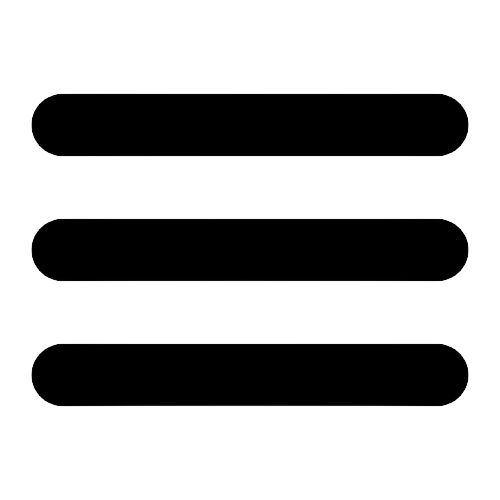
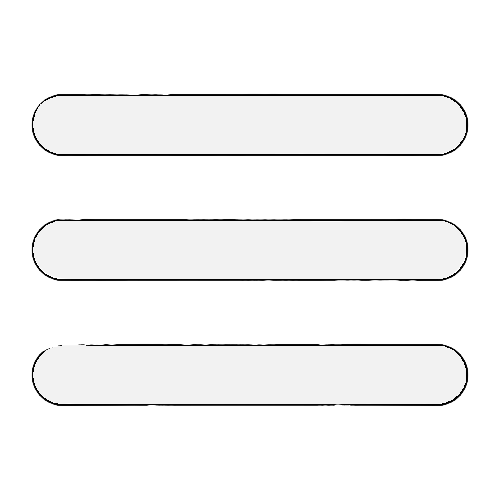
Updated Contact CSS and dropdown image

Changed region(s): [[0.06, 0.42, 0.96, 0.57], [0.06, 0.18, 0.96, 0.33], [0.06, 0.69, 0.93, 0.81]]

diff --git a/styles/contact.css b/styles/contact.css
@@ -466,6 +466,8 @@ input:focus, textarea:focus {
 
 /* Footer Section */
 footer {
+    position: relative;
+    bottom: 0;
     width: 100%;
     height: 45px;
     margin-top: 100px;
@@ -494,6 +496,12 @@ footer {
         border-left: none;
         border-top: 3px solid black;
     }
+
+
+    footer {
+        position: relative;
+        bottom: 0;
+    }
 }
 
 /* Small devices (portrait tablets and large phones, 600px and up) */
@@ -511,14 +519,17 @@ footer {
         width: 90%;
     }
     
-    /* #submit {
-    } */
     
     .extrascont{
         width: 50%;
         padding-top: 10px;
         border-left: none;
         border-top: 3px solid black;
+    }
+
+    footer {
+        position: relative;
+        bottom: 0;
     }
 }
 
@@ -533,7 +544,6 @@ footer {
         flex-direction: column;
     }
     
-    
     .form-group {
         width: 80%;
     }
@@ -541,8 +551,22 @@ footer {
     .extrascont{
         width: 50%;
         padding-top: 10px;
+        margin-bottom: 125px;
         border-left: none;
         border-top: 3px solid black;
+    }
+
+    .navcont {
+        width: 100%;
+    }
+
+    .navbar a {
+        margin: 0px;
+    }
+
+    footer {
+        position: relative;
+        bottom: 0;
     }
 }
 
@@ -551,5 +575,10 @@ footer {
 @media only screen and (min-width: 992px) and (max-width: 1200px) {
     .projects img {
         margin-left: 0px;
+    }
+
+    footer {
+        position: relative;
+        bottom: 0;
     }
 }
